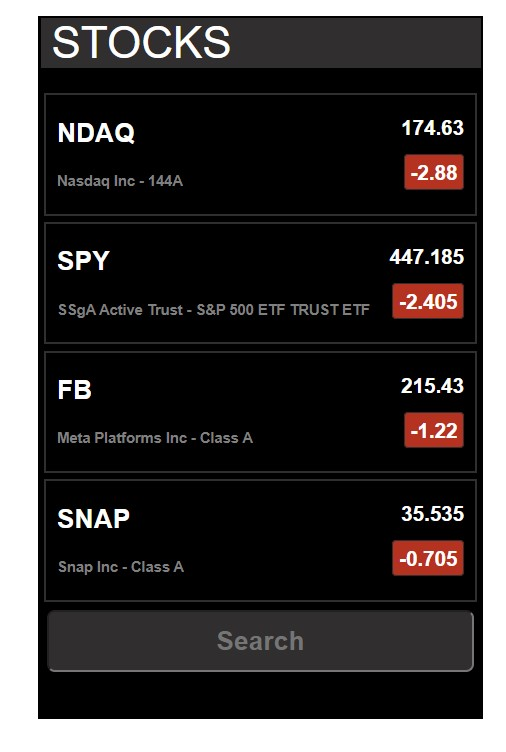
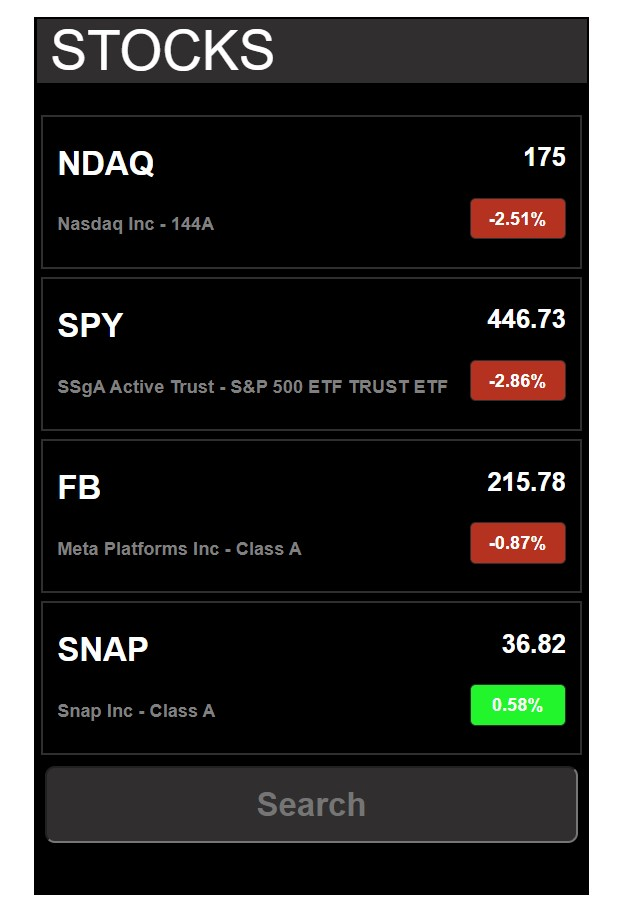
adding new img

Changed region(s): [[0.0296, 0.0, 0.9783, 0.9787]]

diff --git a/src/components/Stock.js b/src/components/Stock.js
@@ -10,8 +10,8 @@ function Stock({symbol,companyName,latestPrice,change}){
             </div>
             <div className="stock-div2">
                 <h3>{latestPrice}</h3>
-                <h3><span className= {change > 0 ? 'background-green': 'background-red'} >{change}</span></h3>
-                
+                {/* <h3><span className= {change > 0 ? 'background-green': 'background-red'} >{change}</span></h3> */}
+                <h3><button className= {change > 0 ? 'background-green': 'background-red'} >{change}%</button></h3>
             </div>  
         </div>
     )

diff --git a/src/styles/Style.css b/src/styles/Style.css
@@ -46,12 +46,15 @@ input{
     color:rgba(255, 255, 255, 0.966);
     background-color: rgb(48, 47, 47);
 }
-span{
-    width: 80px;
-    height:20px;
+button{
+    width: 70px;
+    height:30px;
     border: 1px solid rgb(48, 47, 47);
-    border-radius: .2em;
+    border-radius: .3em;
     padding: 5px;
+    text-align: center;
+    font-weight: bold;
+    color:white
 }
 h5{
     color: gray;

diff --git a/README.md b/README.md
@@ -4,7 +4,7 @@
 
 <img src = "images\stock-app-img1.jpg"/>
 
-<img src = "images\stock-app-img2.jpg"/>
+
 
 
 # Getting Started with Create React App
